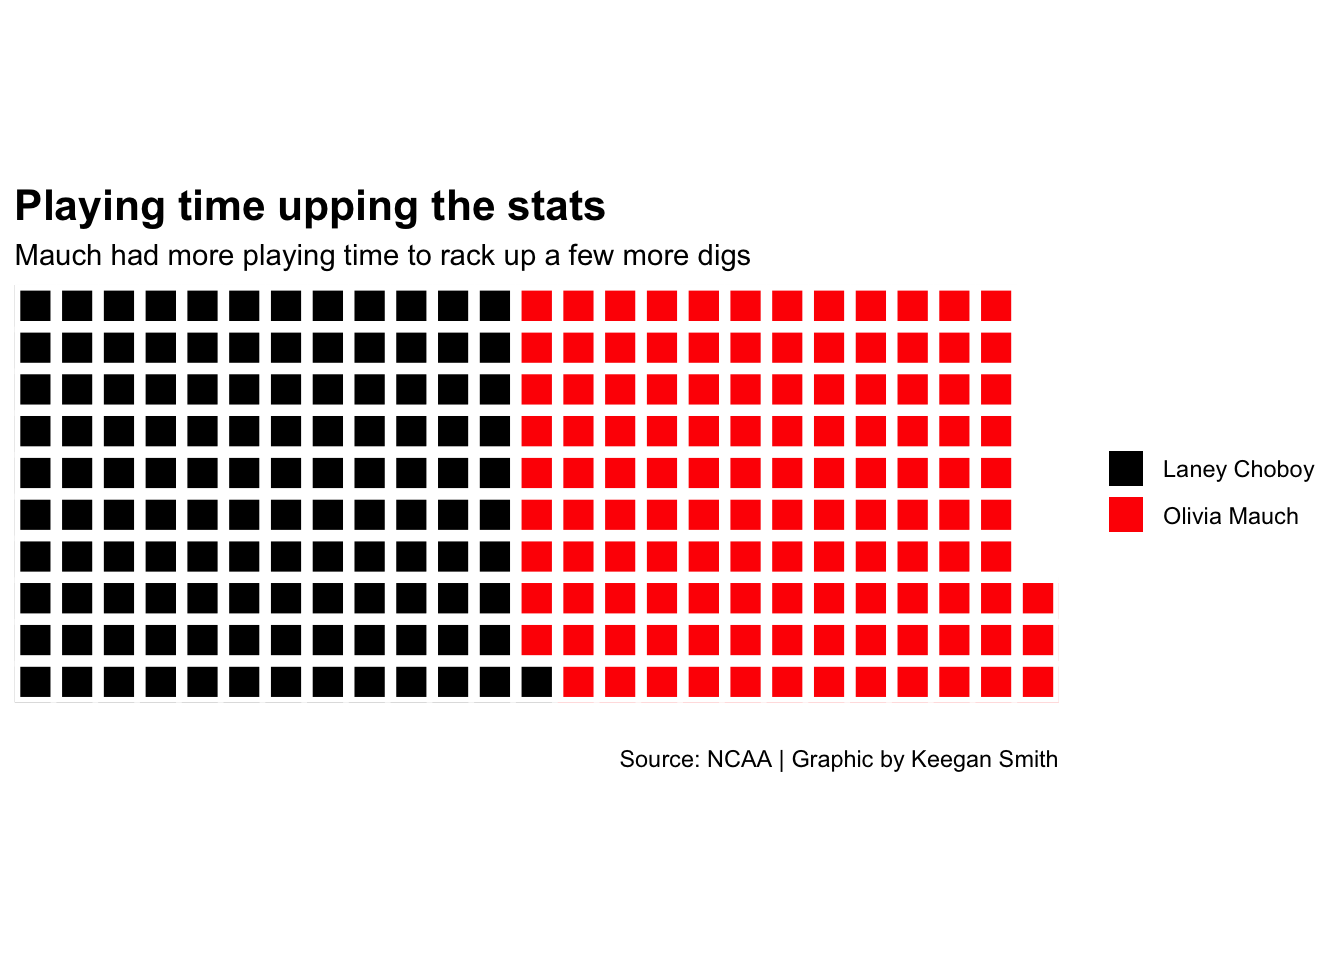
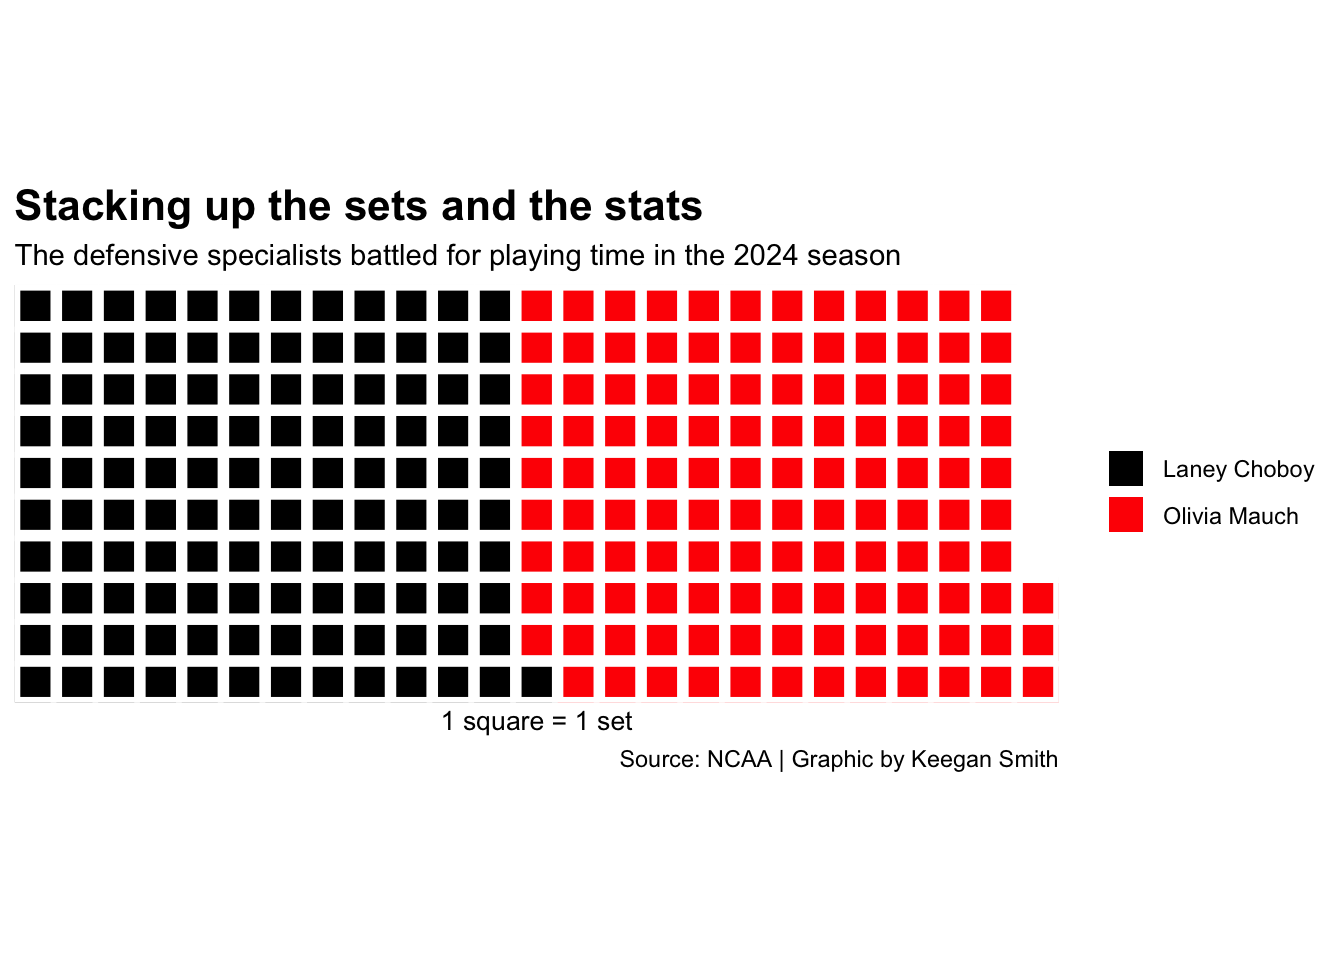
final

Changed region(s): [[0.0, 0.1875, 0.6875, 0.2812], [0.3438, 0.75, 0.4062, 0.7812], [0.4375, 0.75, 0.4688, 0.7812]]

diff --git a/posts/neb-vball-libero-2025/index.html b/posts/neb-vball-libero-2025/index.html
@@ -190,7 +190,7 @@ pre > code.sourceCode > span > a:first-child::before { text-decoration: underlin
 
 
 
-<p>text text text</p>
+<p>Lexi Rodriguez was Nebraska’s star libero for all four years of her college career. However, that sadly came to an end after she graduated this season. Although Rodriguez was still the standout in the back row for the 2024 season, there were two other players that played vital roles in the success of Nebraska’s defense: Laney Choboy and Olivia Mauch. With their spectacular saves and outstanding serves this left Nebraska fans wondering, who will be Lexi’s replacement?</p>
 <div class="cell">
 <details class="code-fold">
 <summary>Code</summary>
@@ -232,7 +232,7 @@ pre > code.sourceCode > span > a:first-child::before { text-decoration: underlin
 </div>
 </div>
 </div>
-<p>text?</p>
+<p>Both Choboy and Mauch were able to gain a lot of experience during the 2024 season, each playing over 120 sets. This time on the court allowed for each of them to build up their stats and test their defensive skills.</p>
 <div class="cell">
 <details class="code-fold">
 <summary>Code</summary>
@@ -262,7 +262,7 @@ pre > code.sourceCode > span > a:first-child::before { text-decoration: underlin
 </div>
 </div>
 </div>
-<p>text text text</p>
+<p>The primary role of a libero is to play defense and get the ball up.Typically, the libero is on the court for all 6 rotations, subbing in for middle hitters, and playing constant defense. As a defensive specialist you are on the court significantly less than a libero, however your role in playing defense is fairly similar. Even as defensive specialists both Choboy and Mauch were able to get an impressive number of digs on the season. The extra set played gave Mauch the opportunity to rack up 196 digs, 11 more than Choboy with 185. Although this is still far below the number of digs Rodriguez accumulated this season, it is a great start considering the difference in playing time between the defensive specialists and libero.</p>
 <div class="cell">
 <details class="code-fold">
 <summary>Code</summary>
@@ -302,7 +302,7 @@ pre > code.sourceCode > span > a:first-child::before { text-decoration: underlin
 </div>
 </div>
 </div>
-<p>more text text text</p>
+<p>Another very important part of being the libero is taking the second ball when the setter is unable to. Whether it’s because the libero took the first hit or the ball was shanked, it is the liberos job to get to it and place it in a good spot on the court that gives their teammates the opportunity to attack. Assists is something that Choboy excelled at with more than double what Mauch had. Her quick and scrappy play is very useful for bringing the ball back into play and setting up her teammates. Although Mauch still has a notable number of assists, she will need to improve a lot in this area if she expects to be libero next season.</p>
 <div class="cell">
 <details class="code-fold">
 <summary>Code</summary>
@@ -317,15 +317,16 @@ pre > code.sourceCode > span > a:first-child::before { text-decoration: underlin
 <span id="cb5-9"><a href="#cb5-9" aria-hidden="true" tabindex="-1"></a>  <span class="fu">labs</span>(</span>
 <span id="cb5-10"><a href="#cb5-10" aria-hidden="true" tabindex="-1"></a>    <span class="at">title=</span><span class="st">"Serving up drama: aces vs oopsies"</span>, </span>
 <span id="cb5-11"><a href="#cb5-11" aria-hidden="true" tabindex="-1"></a>  <span class="at">subtitle =</span> <span class="st">"Comparing &lt;span style = 'color:green;'&gt;service aces&lt;/span&gt; and &lt;span style = 'color:red;'&gt;service errors&lt;/span&gt; from the 2024 season."</span>,</span>
-<span id="cb5-12"><a href="#cb5-12" aria-hidden="true" tabindex="-1"></a>  <span class="at">y=</span><span class="st">""</span>, <span class="at">x=</span><span class="st">"Serves"</span></span>
-<span id="cb5-13"><a href="#cb5-13" aria-hidden="true" tabindex="-1"></a>  ) <span class="sc">+</span> </span>
-<span id="cb5-14"><a href="#cb5-14" aria-hidden="true" tabindex="-1"></a>  <span class="fu">theme_minimal</span>() <span class="sc">+</span></span>
-<span id="cb5-15"><a href="#cb5-15" aria-hidden="true" tabindex="-1"></a>  <span class="fu">theme</span>(</span>
-<span id="cb5-16"><a href="#cb5-16" aria-hidden="true" tabindex="-1"></a>    <span class="at">plot.title =</span> <span class="fu">element_text</span>(<span class="at">size =</span> <span class="dv">15</span>, <span class="at">face =</span> <span class="st">"bold"</span>),</span>
-<span id="cb5-17"><a href="#cb5-17" aria-hidden="true" tabindex="-1"></a>    <span class="at">axis.title =</span> <span class="fu">element_text</span>(<span class="at">size =</span> <span class="dv">8</span>),</span>
-<span id="cb5-18"><a href="#cb5-18" aria-hidden="true" tabindex="-1"></a>    <span class="at">plot.subtitle =</span> <span class="fu">element_textbox_simple</span>(<span class="at">size =</span> <span class="dv">10</span>),</span>
-<span id="cb5-19"><a href="#cb5-19" aria-hidden="true" tabindex="-1"></a>    <span class="at">plot.title.position =</span> <span class="st">"plot"</span></span>
-<span id="cb5-20"><a href="#cb5-20" aria-hidden="true" tabindex="-1"></a>  )</span></code><button title="Copy to Clipboard" class="code-copy-button"><i class="bi"></i></button></pre></div>
+<span id="cb5-12"><a href="#cb5-12" aria-hidden="true" tabindex="-1"></a>  <span class="at">y=</span><span class="st">""</span>, <span class="at">x=</span><span class="st">"Serves"</span>,</span>
+<span id="cb5-13"><a href="#cb5-13" aria-hidden="true" tabindex="-1"></a>  <span class="at">caption=</span><span class="st">"Source: NCAA | By: Keegan Smith"</span></span>
+<span id="cb5-14"><a href="#cb5-14" aria-hidden="true" tabindex="-1"></a>  ) <span class="sc">+</span> </span>
+<span id="cb5-15"><a href="#cb5-15" aria-hidden="true" tabindex="-1"></a>  <span class="fu">theme_minimal</span>() <span class="sc">+</span></span>
+<span id="cb5-16"><a href="#cb5-16" aria-hidden="true" tabindex="-1"></a>  <span class="fu">theme</span>(</span>
+<span id="cb5-17"><a href="#cb5-17" aria-hidden="true" tabindex="-1"></a>    <span class="at">plot.title =</span> <span class="fu">element_text</span>(<span class="at">size =</span> <span class="dv">15</span>, <span class="at">face =</span> <span class="st">"bold"</span>),</span>
+<span id="cb5-18"><a href="#cb5-18" aria-hidden="true" tabindex="-1"></a>    <span class="at">axis.title =</span> <span class="fu">element_text</span>(<span class="at">size =</span> <span class="dv">8</span>),</span>
+<span id="cb5-19"><a href="#cb5-19" aria-hidden="true" tabindex="-1"></a>    <span class="at">plot.subtitle =</span> <span class="fu">element_textbox_simple</span>(<span class="at">size =</span> <span class="dv">10</span>),</span>
+<span id="cb5-20"><a href="#cb5-20" aria-hidden="true" tabindex="-1"></a>    <span class="at">plot.title.position =</span> <span class="st">"plot"</span></span>
+<span id="cb5-21"><a href="#cb5-21" aria-hidden="true" tabindex="-1"></a>  )</span></code><button title="Copy to Clipboard" class="code-copy-button"><i class="bi"></i></button></pre></div>
 </details>
 <div class="cell-output-display">
 <div>
@@ -335,8 +336,8 @@ pre > code.sourceCode > span > a:first-child::before { text-decoration: underlin
 </div>
 </div>
 </div>
-<p>stacked bar chart??</p>
-<p>final text text text</p>
+<p>The final piece of being the libero is serving. Often the libero subs in and serves for one of the middles. Being able to get the ball over the net and in play is key, but getting an ace is even better. Serving is Mauch’s place to shine with 21 aces on the season. Choboy did not have nearly as much opportunity to serve last season as Mauch which may be due to her service errors outnumbering her aces. Having little in game serving experience may make it difficult for Choboy to catch up to Mauch in this category.</p>
+<p>Although Choboy has an extra year of experience on Mauch and is often recognized for her flashy saves, when looking at the numbers Mauch outperforms Choboy in 2/3 of the primary skills necessary for a libero. If you were to make a decision based on numbers alone Mauch would most likely be the best choice as the next libero. After seeing both girls in the libero position during the spring match just a few weeks ago it will be interesting to see if these stats truly impact coach DBK’s decision for the 2025 season.</p>
 
 
 

diff --git a/project2.html b/project2.html
@@ -224,9 +224,9 @@ dbl (23): season, number, gp, gs, s, kills, errors, total_attacks, hit_pct, ...
 <span id="cb10-6"><a href="#cb10-6" aria-hidden="true" tabindex="-1"></a>        <span class="at">colors =</span> <span class="fu">c</span>(<span class="st">"black"</span>, <span class="st">"red"</span>, <span class="st">"white"</span>)</span>
 <span id="cb10-7"><a href="#cb10-7" aria-hidden="true" tabindex="-1"></a>        )<span class="sc">+</span></span>
 <span id="cb10-8"><a href="#cb10-8" aria-hidden="true" tabindex="-1"></a>   <span class="fu">labs</span>(</span>
-<span id="cb10-9"><a href="#cb10-9" aria-hidden="true" tabindex="-1"></a>    <span class="at">x =</span> <span class="st">""</span>,</span>
-<span id="cb10-10"><a href="#cb10-10" aria-hidden="true" tabindex="-1"></a>    <span class="at">title=</span><span class="st">"Playing time upping the stats"</span>, </span>
-<span id="cb10-11"><a href="#cb10-11" aria-hidden="true" tabindex="-1"></a>    <span class="at">subtitle=</span><span class="st">"Mauch had more playing time to rack up a few more digs"</span>,</span>
+<span id="cb10-9"><a href="#cb10-9" aria-hidden="true" tabindex="-1"></a>    <span class="at">x =</span> <span class="st">"1 square = 1 set"</span>,</span>
+<span id="cb10-10"><a href="#cb10-10" aria-hidden="true" tabindex="-1"></a>    <span class="at">title=</span><span class="st">"Stacking up the sets and the stats"</span>, </span>
+<span id="cb10-11"><a href="#cb10-11" aria-hidden="true" tabindex="-1"></a>    <span class="at">subtitle=</span><span class="st">"The defensive specialists battled for playing time in the 2024 season"</span>,</span>
 <span id="cb10-12"><a href="#cb10-12" aria-hidden="true" tabindex="-1"></a>    <span class="at">caption=</span><span class="st">"Source: NCAA | Graphic by Keegan Smith"</span>) <span class="sc">+</span> </span>
 <span id="cb10-13"><a href="#cb10-13" aria-hidden="true" tabindex="-1"></a>  <span class="fu">theme</span>(</span>
 <span id="cb10-14"><a href="#cb10-14" aria-hidden="true" tabindex="-1"></a>    <span class="at">plot.title =</span> <span class="fu">element_text</span>(<span class="at">size =</span> <span class="dv">16</span>, <span class="at">face =</span> <span class="st">"bold"</span>),</span>
@@ -250,9 +250,9 @@ dbl (23): season, number, gp, gs, s, kills, errors, total_attacks, hit_pct, ...
 <span id="cb11-6"><a href="#cb11-6" aria-hidden="true" tabindex="-1"></a>        <span class="at">colors =</span> <span class="fu">c</span>(<span class="st">"black"</span>, <span class="st">"red"</span>)</span>
 <span id="cb11-7"><a href="#cb11-7" aria-hidden="true" tabindex="-1"></a>        )<span class="sc">+</span></span>
 <span id="cb11-8"><a href="#cb11-8" aria-hidden="true" tabindex="-1"></a>  <span class="fu">labs</span>(</span>
-<span id="cb11-9"><a href="#cb11-9" aria-hidden="true" tabindex="-1"></a>    <span class="at">x =</span> <span class="st">""</span>,</span>
-<span id="cb11-10"><a href="#cb11-10" aria-hidden="true" tabindex="-1"></a>    <span class="at">title=</span><span class="st">"Playing time upping the stats"</span>, </span>
-<span id="cb11-11"><a href="#cb11-11" aria-hidden="true" tabindex="-1"></a>    <span class="at">subtitle=</span><span class="st">"Mauch had more playing time to rack up a few more digs"</span>,</span>
+<span id="cb11-9"><a href="#cb11-9" aria-hidden="true" tabindex="-1"></a>    <span class="at">x =</span> <span class="st">"1 square = 2 digs"</span>,</span>
+<span id="cb11-10"><a href="#cb11-10" aria-hidden="true" tabindex="-1"></a>    <span class="at">title=</span><span class="st">"Digging deep and breaking down defensive dominance"</span>, </span>
+<span id="cb11-11"><a href="#cb11-11" aria-hidden="true" tabindex="-1"></a>    <span class="at">subtitle=</span><span class="st">"Mauch's extra playing time let her rack up a few more digs"</span>,</span>
 <span id="cb11-12"><a href="#cb11-12" aria-hidden="true" tabindex="-1"></a>    <span class="at">caption=</span><span class="st">"Source: NCAA | Graphic by Keegan Smith"</span>) <span class="sc">+</span> </span>
 <span id="cb11-13"><a href="#cb11-13" aria-hidden="true" tabindex="-1"></a>  <span class="fu">theme</span>(</span>
 <span id="cb11-14"><a href="#cb11-14" aria-hidden="true" tabindex="-1"></a>    <span class="at">plot.title =</span> <span class="fu">element_text</span>(<span class="at">size =</span> <span class="dv">16</span>, <span class="at">face =</span> <span class="st">"bold"</span>),</span>
@@ -285,7 +285,7 @@ dbl (23): season, number, gp, gs, s, kills, errors, total_attacks, hit_pct, ...
 <span id="cb12-15"><a href="#cb12-15" aria-hidden="true" tabindex="-1"></a>    <span class="at">x=</span><span class="st">""</span>, </span>
 <span id="cb12-16"><a href="#cb12-16" aria-hidden="true" tabindex="-1"></a>    <span class="at">y=</span><span class="st">"Total Assists"</span>, </span>
 <span id="cb12-17"><a href="#cb12-17" aria-hidden="true" tabindex="-1"></a>    <span class="at">title=</span><span class="st">"Stepping up to set it up"</span>, </span>
-<span id="cb12-18"><a href="#cb12-18" aria-hidden="true" tabindex="-1"></a>    <span class="at">subtitle=</span><span class="st">"The setter being out of play causes other players to set up attackers to finish the play."</span>, </span>
+<span id="cb12-18"><a href="#cb12-18" aria-hidden="true" tabindex="-1"></a>    <span class="at">subtitle=</span><span class="st">"The setter being out of play leaves other players to set up attackers to finish the play."</span>, </span>
 <span id="cb12-19"><a href="#cb12-19" aria-hidden="true" tabindex="-1"></a>    <span class="at">caption=</span><span class="st">"Source: NCAA | By: Keegan Smith"</span></span>
 <span id="cb12-20"><a href="#cb12-20" aria-hidden="true" tabindex="-1"></a>    ) <span class="sc">+</span></span>
 <span id="cb12-21"><a href="#cb12-21" aria-hidden="true" tabindex="-1"></a>  <span class="fu">theme_minimal</span>()<span class="sc">+</span></span>
@@ -313,7 +313,7 @@ dbl (23): season, number, gp, gs, s, kills, errors, total_attacks, hit_pct, ...
 <span id="cb13-7"><a href="#cb13-7" aria-hidden="true" tabindex="-1"></a>    <span class="at">colour_x =</span> <span class="st">"green"</span>,</span>
 <span id="cb13-8"><a href="#cb13-8" aria-hidden="true" tabindex="-1"></a>    <span class="at">colour_xend =</span> <span class="st">"red"</span>) <span class="sc">+</span></span>
 <span id="cb13-9"><a href="#cb13-9" aria-hidden="true" tabindex="-1"></a>  <span class="fu">labs</span>(</span>
-<span id="cb13-10"><a href="#cb13-10" aria-hidden="true" tabindex="-1"></a>    <span class="at">title=</span><span class="st">"Service aces vs service errors"</span>, </span>
+<span id="cb13-10"><a href="#cb13-10" aria-hidden="true" tabindex="-1"></a>    <span class="at">title=</span><span class="st">"Serving up drama: aces vs oopsies"</span>, </span>
 <span id="cb13-11"><a href="#cb13-11" aria-hidden="true" tabindex="-1"></a>  <span class="at">subtitle =</span> <span class="st">"Comparing &lt;span style = 'color:green;'&gt;service aces&lt;/span&gt; and &lt;span style = 'color:red;'&gt;service errors&lt;/span&gt; from the 2024 season."</span>,</span>
 <span id="cb13-12"><a href="#cb13-12" aria-hidden="true" tabindex="-1"></a>  <span class="at">y=</span><span class="st">""</span>, <span class="at">x=</span><span class="st">"Serves"</span></span>
 <span id="cb13-13"><a href="#cb13-13" aria-hidden="true" tabindex="-1"></a>  ) <span class="sc">+</span> </span>

diff --git a/index.html b/index.html
@@ -205,7 +205,7 @@ window.Quarto = {
 
 <div class="quarto-listing quarto-listing-container-default" id="listing-listing">
 <div class="list quarto-listing-default">
-<div class="quarto-post image-right" data-index="0" data-categories="ncaa,volleyball,libero" data-listing-date-sort="1746075600000" data-listing-file-modified-sort="1746150596001" data-listing-date-modified-sort="NaN" data-listing-reading-time-sort="3" data-listing-word-count-sort="586">
+<div class="quarto-post image-right" data-index="0" data-categories="ncaa,volleyball,libero" data-listing-date-sort="1746075600000" data-listing-file-modified-sort="1746238499750" data-listing-date-modified-sort="NaN" data-listing-reading-time-sort="6" data-listing-word-count-sort="1140">
 <div class="thumbnail">
 <p><a href="./posts/neb-vball-libero-2025/index.html" class="no-external"></a></p><a href="./posts/neb-vball-libero-2025/index.html" class="no-external">
 <p><img loading="lazy" src="./posts/neb-vball-libero-2025/thelittles.png" class="thumbnail-image"></p>
@@ -230,7 +230,7 @@ libero
 </div>
 </div>
 <div class="listing-description">
-<a href="./posts/neb-vball-libero-2025/index.html" class="no-external">text text text</a>
+<a href="./posts/neb-vball-libero-2025/index.html" class="no-external">Lexi Rodriguez was Nebraska’s star libero for all four years of her college career. However, that sadly came to an end after she graduated this season. Although Rodriguez…</a>
 </div>
 </div>
 <div class="metadata">
